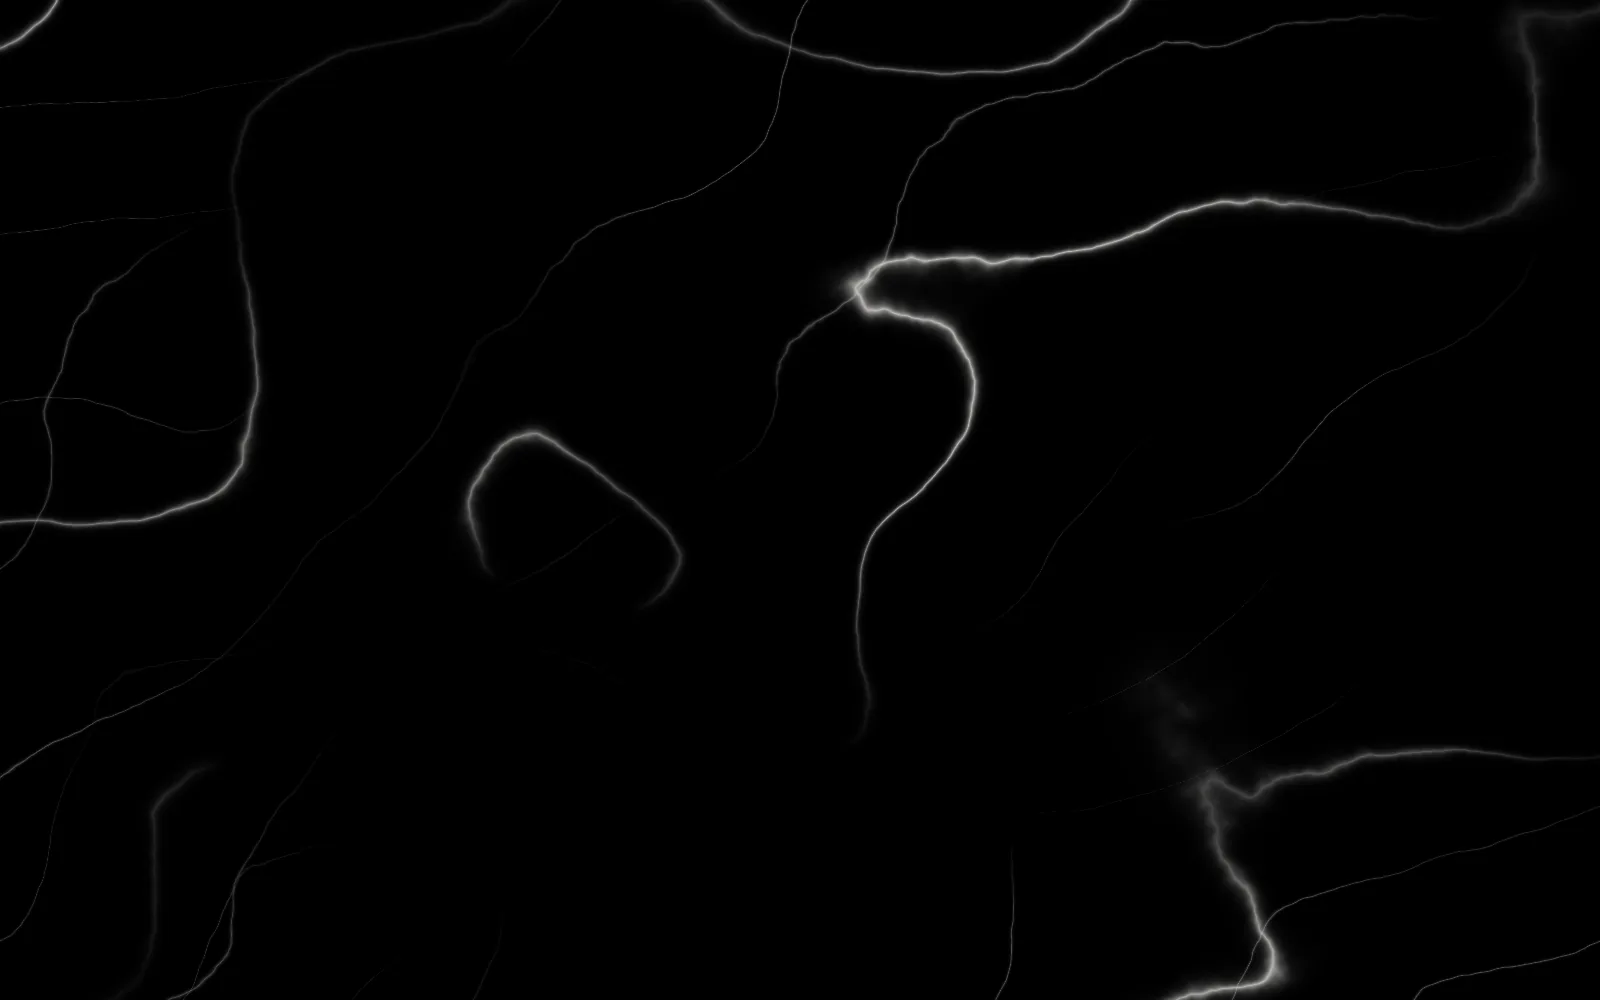
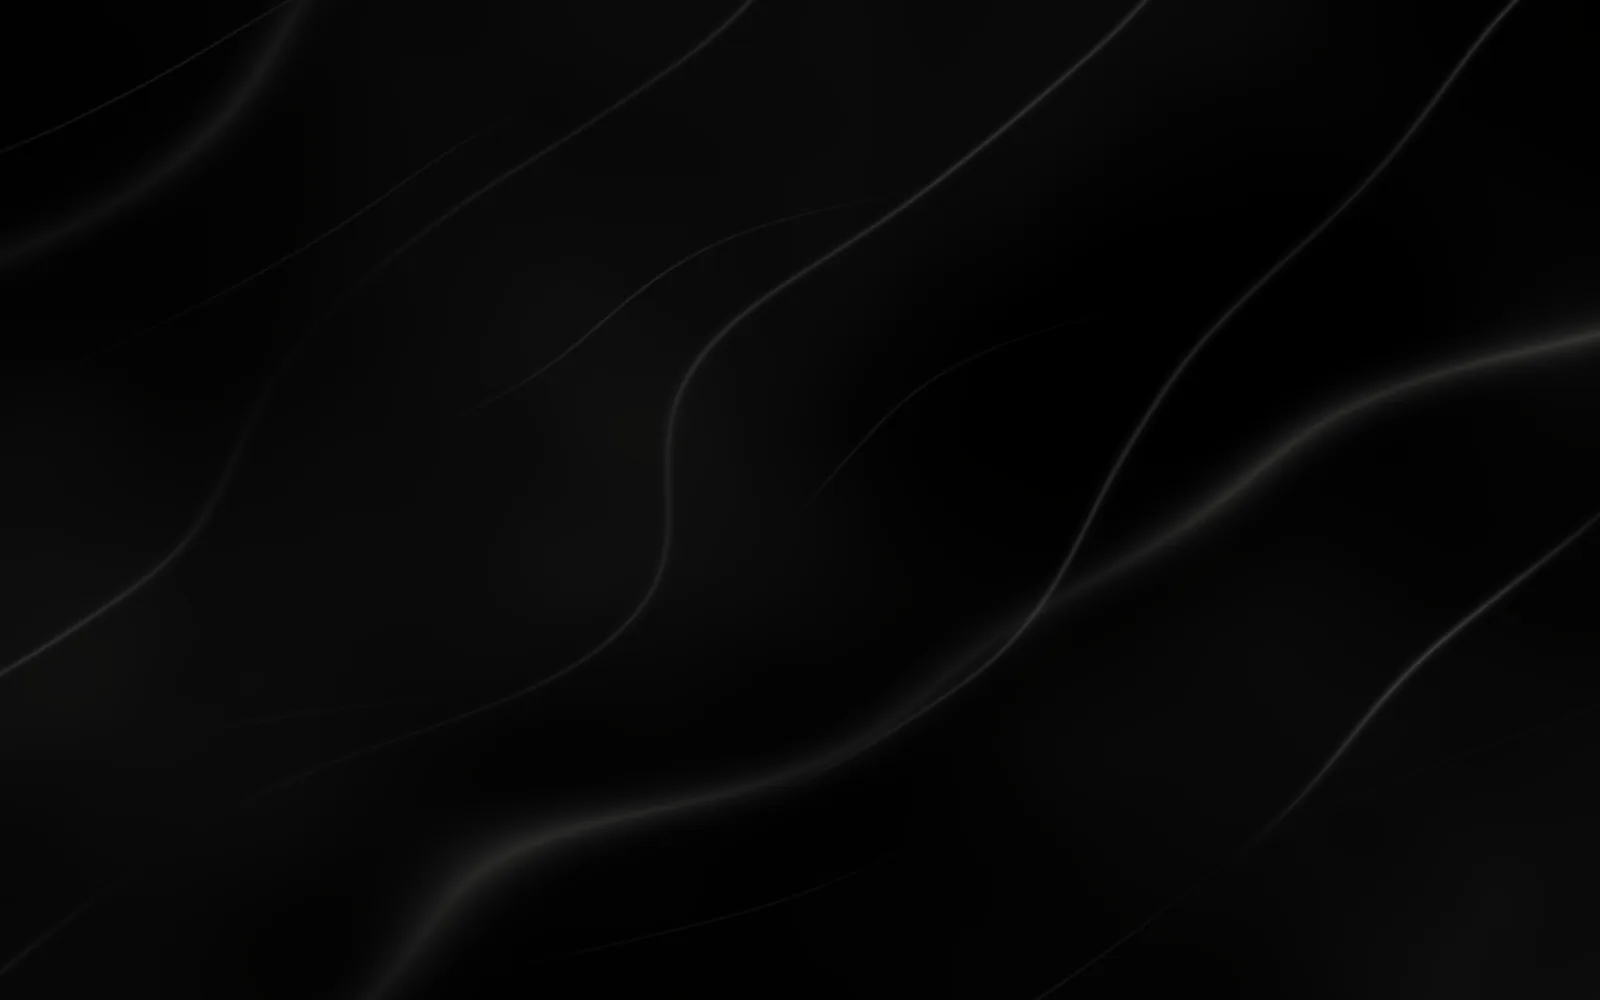
0.8.3: vetas del Mármol más calmadas (Carlos: «parecen rayos»)
Grises, largas y suaves, sin resplandor ni temblor fino; el fondo, negro con nubes muy tenues. Las dos texturas pasan de 17 y 16 KB a 9 y 10 KB.

Claude-Session: https://claude.ai/code/session_01H9251Ntov8N3Y1YsA9se6W

diff --git a/scripts/textura_marmol.py b/scripts/textura_marmol.py
@@ -1,4 +1,4 @@
-"""La textura del Mármol G (0.8.3): negro AMOLED con vetas blancas marcadas, sin ninguna de oro.
+"""La textura del Mármol G (0.8.3): negro AMOLED con vetas grises largas y suaves, sin ninguna de oro.
 
 Sale siempre igual (semillas fijas). Hace las dos que usa la app y toison.es:
   marmol-g.webp     780 × 1690, para el móvil
@@ -6,7 +6,7 @@ Sale siempre igual (semillas fijas). Hace las dos que usa la app y toison.es:
 
     python scripts/textura_marmol.py [carpeta]   (por defecto, la raíz del repositorio)
 
-Receta de la maqueta del 6 nov (claude/sesiones-6nov-marmol.md en el Proyecto).
+Parte de la receta de la maqueta del 6 nov (claude/sesiones-6nov-marmol.md en el Proyecto), calmada esa tarde.
 """
 import sys
 from pathlib import Path
@@ -34,34 +34,36 @@ def ruido(sem, octavas, base, alto, ancho):
     return total / suma
 
 
-def capa(img, sem, ang, freq, turb, finura, color, fuerza, desenfoque):
+def capa(img, sem, ang, freq, turb, finura, color, fuerza, temblor):
+    """una familia de vetas: largas y onduladas (el temblor fino, casi nada: con más, parecían rayos)"""
     alto, ancho = img.shape[:2]
     y, x = np.mgrid[0:alto, 0:ancho] / ancho
     a = np.radians(ang)
     u = x * np.cos(a) + y * np.sin(a)
-    t = ruido(sem, 3, 2, alto, ancho) * turb + ruido(sem + 50, 6, 10, alto, ancho) * turb * 0.07
+    t = ruido(sem, 3, 1.2, alto, ancho) * turb + ruido(sem + 50, 3, 4, alto, ancho) * turb * temblor
     m = (1 - np.abs(np.sin((u * freq + t) * np.pi))) ** finura
-    if desenfoque:
-        m = np.maximum(m, gaussian_filter(m, desenfoque) * 0.6)
-    m = m * np.clip((ruido(sem + 100, 4, 2, alto, ancho) - 0.42) * 3.2, 0, 1) * fuerza
-    m = m[..., None]
+    m = m * np.clip((ruido(sem + 100, 3, 1.5, alto, ancho) - 0.42) * 2.2, 0, 1) * fuerza
+    m = gaussian_filter(m, 0.6)[..., None]
     return img * (1 - m) + np.array(color, float) * m
 
 
-# (semilla, ángulo, frecuencia, turbulencia, finura, color, fuerza, desenfoque)
-CAPAS_G = [
-    (1, 62, 1.6, 2.2, 34, (238, 236, 232), .78, 2.5),
-    (2, 48, 3.2, 3.0, 90, (222, 220, 216), .39, 0),
-    (6, 75, 4.0, 2.6, 160, (228, 226, 222), .25, 0),
+# (semilla, ángulo, frecuencia, turbulencia, finura, color, fuerza, temblor)
+# 6 nov, tarde: Carlos vio las vetas de la maqueta G (blancas, finas, con resplandor y temblor) «como rayos, nada serio».
+# Estas son grises, largas y suaves, sin resplandor: mármol negro pulido
+CAPAS = [
+    (1, 58, 1.1, 1.1, 10, (120, 118, 114), .55, .03),
+    (2, 50, 2.4, 1.3, 40, (150, 148, 144), .45, .03),
+    (6, 70, 3.4, 1.2, 120, (170, 168, 164), .30, .02),
 ]
 
 
 def textura(ancho, alto, escala=1.0):
-    nubes = gaussian_filter(ruido(11, 5, 3, alto, ancho), 6)
+    # el fondo, negro con nubes muy suaves (como mucho 16 de 255: sigue siendo negro de AMOLED casi en todo)
+    nubes = gaussian_filter(ruido(11, 5, 2, alto, ancho), 18)
     nubes = (nubes - nubes.min()) / (nubes.max() - nubes.min() + 1e-9)
-    img = np.zeros((alto, ancho, 3)) + nubes[..., None] * np.array((1, 1, 1), float)
-    for sem, ang, freq, turb, fin, col, fz, b in CAPAS_G:
-        img = capa(img, sem, ang, freq * escala, turb, fin, col, fz, b)
+    img = np.zeros((alto, ancho, 3)) + (nubes ** 2)[..., None] * np.array((16, 16, 15.5))
+    for sem, ang, freq, turb, fin, col, fz, tem in CAPAS:
+        img = capa(img, sem, ang, freq * escala, turb, fin, col, fz, tem)
     return Image.fromarray(np.clip(img, 0, 255).astype(np.uint8))
 
 

diff --git a/claude/versiones/0.8.md b/claude/versiones/0.8.md
@@ -54,7 +54,7 @@ Objetivo: sacar la app de charly10sf.github.io (origen compartido con todo lo qu
 - [ ] Variante «Play» de la app de Android (sin actualización por APK; Play lo prohíbe) y app 68 con la dirección nueva (Principal.WEB, Datos.java). PRIMERO en la semana, para que la prueba cerrada empiece el 23
 - [ ] Play, todo lo de la ficha: textos y capturas, formulario Data safety, declaración de funciones financieras («no asesora»), enlace a la política de privacidad, vídeo del servicio en primer plano (dataSync); subir la variante Play a la prueba cerrada e invitar a 20 personas (Google pide 12 durante 14 días seguidos; con 20 hay reserva). Al acabar los 14 días (7 dic), pedir el acceso a producción
 - [ ] ~~Entrar con Google también en la app de Android~~ (6 nov: pasa a la 0.9; ver 0.9.md): Credential Manager nativo con client ID de tipo Web y puente JS → signInWithCredential
-- [ ] EL MÁRMOL NUEVO (6 nov): G · AMOLED con vetas marcadas (negro puro #000, solo vetas blancas, oro más vivo) sustituye al Mármol de hoy. Tokens, textura y receta en claude/sesiones-6nov-marmol.md del Proyecto. En la app, tablas y tarjetas opacas (las vetas solo en los huecos y el fondo); en toison.es, vetas marcadas tal cual. HECHO EN LA APP (6 nov, tarde, rama v0.8.3): tokens, textura (scripts/textura_marmol.py → marmol-g.webp y marmol-g-pc.webp, puestas desde el <style> de index.html), brillo de piedra, losas con filo de luz blanca, tablas opacas, halo negro en los textos sueltos sobre el mármol, theme-color #000 y prueba nueva en tests/temas.spec.js. Falta: toison.es, Tema.java, widget e iconos de Android, colores de las gráficas, tests/colores-topes.json si cambian los recuentos, pruebas de color y accesibilidad
+- [ ] EL MÁRMOL NUEVO (6 nov): G · AMOLED con vetas marcadas (negro puro #000, solo vetas blancas, oro más vivo) sustituye al Mármol de hoy. Tokens, textura y receta en claude/sesiones-6nov-marmol.md del Proyecto. En la app, tablas y tarjetas opacas (las vetas solo en los huecos y el fondo); en toison.es, vetas marcadas tal cual. HECHO EN LA APP (6 nov, tarde, rama v0.8.3): tokens, textura (vetas grises, largas y suaves: Carlos vio las blancas de la maqueta «como rayos») (scripts/textura_marmol.py → marmol-g.webp y marmol-g-pc.webp, puestas desde el <style> de index.html), brillo de piedra, losas con filo de luz blanca, tablas opacas, halo negro en los textos sueltos sobre el mármol, theme-color #000 y prueba nueva en tests/temas.spec.js. Falta: toison.es, Tema.java, widget e iconos de Android, colores de las gráficas, tests/colores-topes.json si cambian los recuentos, pruebas de color y accesibilidad
 - [ ] Los ajustes del dispositivo (diseño, modo, idioma, avisos) guardados cifrados en la cuenta y recuperados al entrar
 - [ ] BORRAR LA CUENTA desde la app y desde una página web pública (Play desde la primera pista y RGPD art. 17); con Blaze, el TTL de fallos_ia
 - [ ] Antes de mover: subir a la cuenta lo pendiente al abrir; aviso «Toisón se muda a toison.es/app» con botón; después, redirección automática desde github.io (como en la 0.3.11d)
